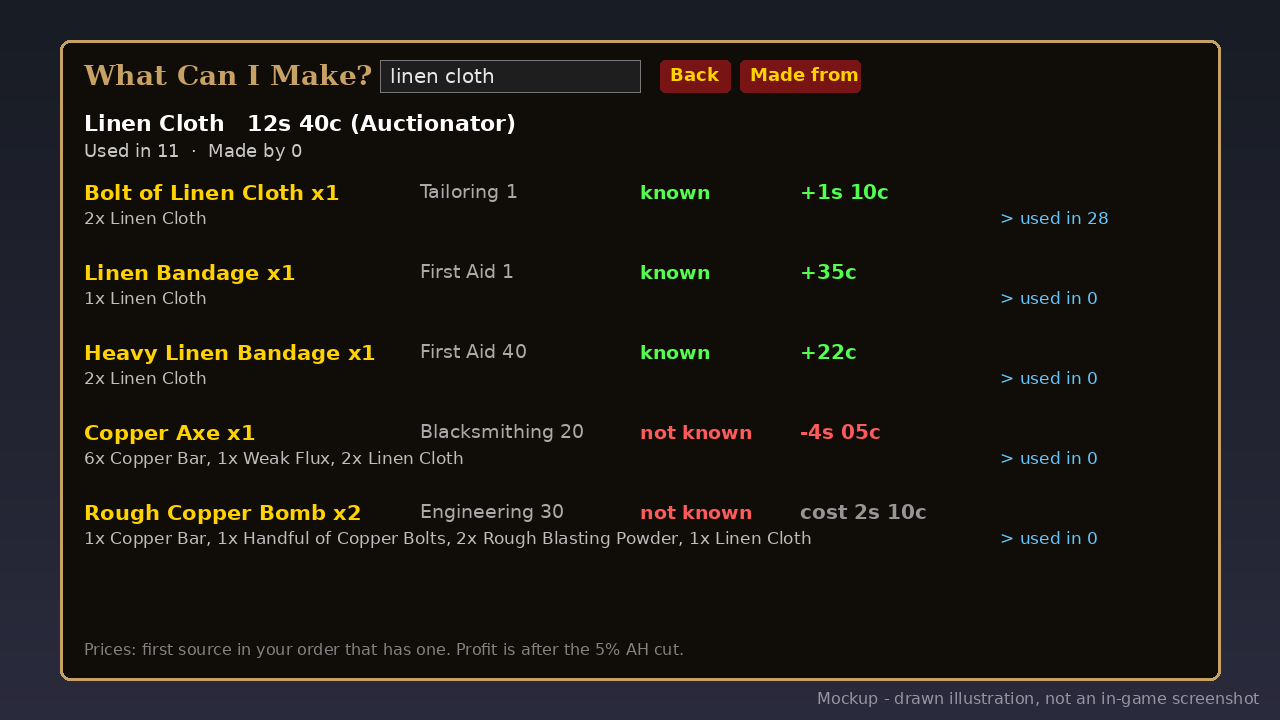
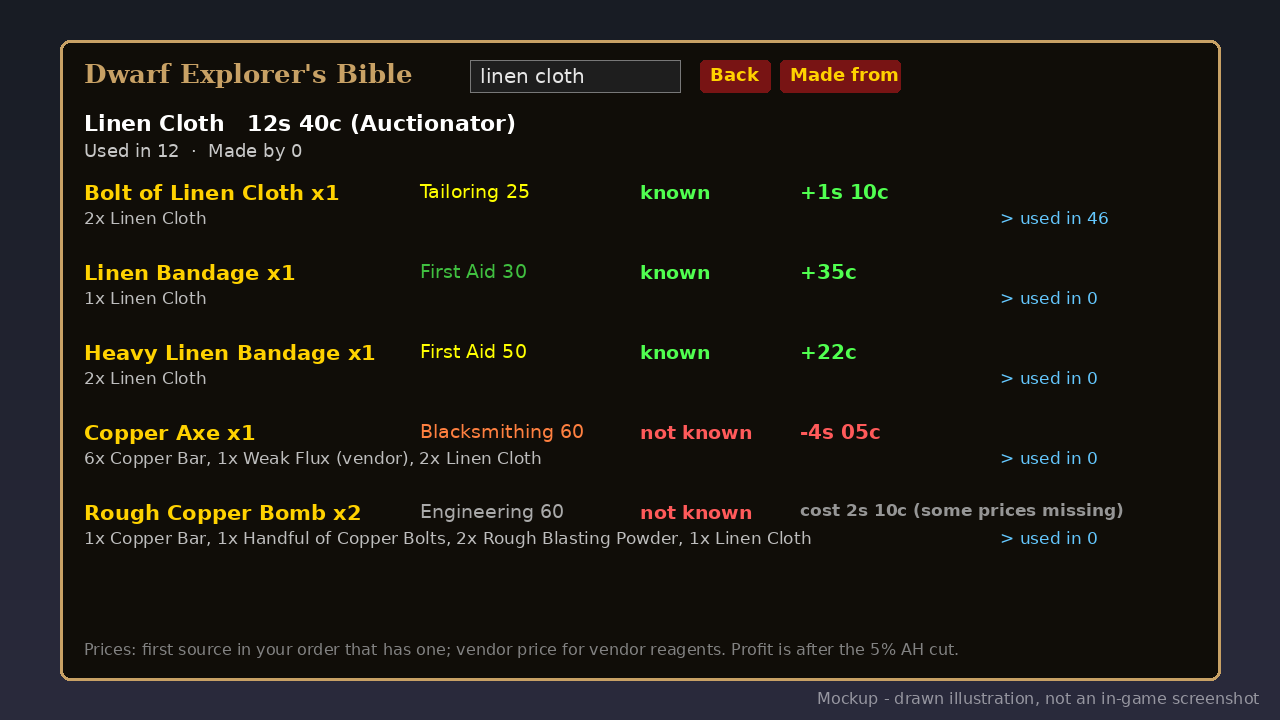
Rename to Dwarf Explorer's Bible (/deb, /craftguide)

diff --git a/README.md b/README.md
@@ -1,23 +1,23 @@
-<p align="center"><img src="media/logo.png" alt="What Can I Make? logo" width="200"></p>
+<p align="center"><img src="media/logo.png" alt="Dwarf Explorer's Bible logo" width="200"></p>
 
-# What Can I Make? (WoW: Forever) v1.0.0
+# Dwarf Explorer's Bible (WoW: Forever) v1.0.1
 
-[![Tests](https://github.com/masterred92/WhatCanIMake/actions/workflows/tests.yml/badge.svg)](https://github.com/masterred92/WhatCanIMake/actions/workflows/tests.yml) [![WoW: Forever](https://img.shields.io/badge/WoW%3A%20Forever-Interface%2016001-c8a165)](https://github.com/masterred92/WhatCanIMake/blob/main/WhatCanIMake.toc) [![Release](https://img.shields.io/github/v/release/masterred92/WhatCanIMake?label=release)](https://github.com/masterred92/WhatCanIMake/releases) [![License: MIT](https://img.shields.io/github/license/masterred92/WhatCanIMake)](https://github.com/masterred92/WhatCanIMake/blob/main/LICENSE)
+[![Tests](https://github.com/masterred92/DwarfExplorersBible/actions/workflows/tests.yml/badge.svg)](https://github.com/masterred92/DwarfExplorersBible/actions/workflows/tests.yml) [![WoW: Forever](https://img.shields.io/badge/WoW%3A%20Forever-Interface%2016001-c8a165)](https://github.com/masterred92/DwarfExplorersBible/blob/main/DwarfExplorersBible.toc) [![Release](https://img.shields.io/github/v/release/masterred92/DwarfExplorersBible?label=release)](https://github.com/masterred92/DwarfExplorersBible/releases) [![License: MIT](https://img.shields.io/github/license/masterred92/DwarfExplorersBible)](https://github.com/masterred92/DwarfExplorersBible/blob/main/LICENSE)
 
-**"What can I make with this?"** Pick any material and What Can I Make? shows every recipe that uses it, what each one is worth at the auction house right now, and where the result goes next.
+**What can I make?** — "What can I make with this?" Pick any material and Dwarf Explorer's Bible shows every recipe that uses it, what each one is worth at the auction house right now, and where the result goes next.
 
-- **Pick a material:** Alt-click any item (bags, chat links, loot, the AH), type `/wcim linen cloth`, paste a link, or use the search box.
+- **Pick a material:** Alt-click any item (bags, chat links, loot, the AH), type `/deb linen cloth`, paste a link, or use the search box.
 - **Every recipe that uses it:** profession, skill level (orange when it's above yours), the other reagents, and whether you know the recipe.
 - **Prices and profit:** the latest auction price for the material, every reagent and every crafted result, the reagent cost, and the estimated profit after the 5% AH cut. Each price says which addon it came from.
 - **Follow the chain:** click a result to see what *that* makes: Linen Cloth > Bolt of Linen Cloth > Linen Bag. Back walks the chain back. "Made from" flips to the recipes that create the item.
-- **Tooltip line:** "Used in N recipes (What Can I Make?)", with its price and source.
+- **Tooltip line:** "Used in N recipes (Dwarf Explorer's Bible)", with its price and source.
 - **LDB launcher** for Titan Panel, ChocolateBar and other broker displays.
 
-<p align="center"><img src="media/screenshots/banner.png" alt="What Can I Make? banner" width="560"></p>
-<p align="center"><img src="media/screenshots/mockup-guide.png" alt="What Can I Make? preview" width="560"></p>
+<p align="center"><img src="media/screenshots/banner.png" alt="Dwarf Explorer's Bible banner" width="560"></p>
+<p align="center"><img src="media/screenshots/mockup-guide.png" alt="Dwarf Explorer's Bible preview" width="560"></p>
 
 ## Price sources
-What Can I Make? reads prices from whichever price addon you already use. The first source in your order that has a price wins:
+Dwarf Explorer's Bible reads prices from whichever price addon you already use. The first source in your order that has a price wins:
 
 | Source | API used | Forever (16001) build |
 | --- | --- | --- |
@@ -25,10 +25,10 @@ What Can I Make? reads prices from whichever price addon you already use. The fi
 | [Auctionator](https://www.curseforge.com/wow/addons/auctionator) | `Auctionator.API.v1.GetAuctionPriceByItemID` | Yes (341, Oct 13 2026) |
 | [TradeSkillMaster](https://tradeskillmaster.com) | `TSM_API.GetCustomPriceValue("DBMarket")`, then `DBMinBuyout` | Not yet; works when it ships one |
 | [Auctioneer (Forever)](https://www.curseforge.com/wow/addons/auctioneer-forever) | `AucAdvanced.API.GetMarketValue` | Yes (4.0.0) |
-| What Can I Make? scan | prices it sees in AH searches **you** do | Always on |
+| Dwarf Explorer's Bible scan | prices it sees in AH searches **you** do | Always on |
 
 No price addon? It still works: every AH search you make (browse or commodity) is cached. It never searches on its own.
-Change the order with `/wcim prefer auctionator` or `/wcim order tsm,auctionator,scan`; `/wcim sources` shows the order and what's installed.
+Change the order with `/deb prefer auctionator` or `/deb order tsm,auctionator,scan`; `/deb sources` shows the order and what's installed.
 
 ## Where the recipes come from
 The recipe list (1,971 recipes across Alchemy, Blacksmithing, Cooking, Enchanting items, Engineering, First Aid, Leatherworking, Mining and Tailoring) comes from **WoW: Forever's own client tables** (build 1.60.1, via [wago.tools](https://wago.tools)), so it has Forever's reagents, not vanilla's: for example Minor Healing Potion in Forever uses an Empty Vial, Mild Spices and Peaceblooms. `tools/gen_data.py` regenerates it after a patch. Skill levels are where a recipe turns yellow and grey, coloured against your own skill. Each time you open a profession window the addon also records what you know and adds any recipe the bundled list doesn't have.
@@ -39,24 +39,24 @@ The recipe list (1,971 recipes across Alchemy, Blacksmithing, Cooking, Enchantin
 Reverse lookups exist ([Recipe Master by BrenoLudgero](https://www.curseforge.com/wow/addons/recipe-master), ATT, Auctionator's crafting info, TSM's crafting tab, CraftSim on retail, Crafting Dictionary on retail), but they either track which recipes you're missing, price recipes you already know, or start from the recipe rather than the material. This one starts from the material, prices every option from your own AH addon, and lets you walk the chain material > intermediate > final, like the Guide in Terraria.
 
 ## Commands
-`/wcim` (or `/craftguide`) open · `/wcim <name, link or itemID>` · `sources` · `prefer <id>` · `order a,b,c` · `tooltip` · `altclick` · `report` · `help`. Source ids: `pricelog`, `auctionator`, `tsm`, `auctioneer`, `scan`.
+`/deb` (or `/craftguide`) open · `/deb <name, link or itemID>` · `sources` · `prefer <id>` · `order a,b,c` · `tooltip` · `altclick` · `report` · `help`. Source ids: `pricelog`, `auctionator`, `tsm`, `auctioneer`, `scan`.
 
 ## Download
 - **Wago Addons:** coming at launch (Nov 4). The link goes here when the project is live.
 - **CurseForge:** maybe later.
-- **GitHub:** [Releases](https://github.com/masterred92/WhatCanIMake/releases) (from the first tagged release) · [Issues](https://github.com/masterred92/WhatCanIMake/issues)
+- **GitHub:** [Releases](https://github.com/masterred92/DwarfExplorersBible/releases) (from the first tagged release) · [Issues](https://github.com/masterred92/DwarfExplorersBible/issues)
 - **More by Kenny:** [PriceLog](https://github.com/masterred92/PriceLog) · [MatTooltip](https://github.com/masterred92/MatTooltip) · [NeutralFlip](https://github.com/masterred92/NeutralFlip) · [all WoW: Forever addons](https://github.com/masterred92/wow-forever-addons)
 
 ## Install
-Put the `WhatCanIMake` folder in `World of Warcraft\_forever_\Interface\AddOns\` and restart the game or `/reload`.
+Put the `DwarfExplorersBible` folder in `World of Warcraft\_forever_\Interface\AddOns\` and restart the game or `/reload`.
 
 ## In-game test checklist (launch day)
 1. Listed in AddOns with its icon.
-2. Hover Linen Cloth: "Used in N recipes (What Can I Make?)". Alt-click it: the guide opens on Linen Cloth.
-3. `/wcim copper bar` opens Copper Bar; click a result and Back returns.
+2. Hover Linen Cloth: "Used in N recipes (Dwarf Explorer's Bible)". Alt-click it: the guide opens on Linen Cloth.
+3. `/deb copper bar` opens Copper Bar; click a result and Back returns.
 4. Open each profession window: your known recipes turn green and your skill shows; a Forever-only recipe appears with "from your profession window".
-5. With Auctionator installed and a scan done, prices say "(Auctionator)". Turn it off: an AH search you do shows "(What Can I Make? scan)".
-6. `/wcim prefer scan` and `/wcim sources` show the new order; it survives `/reload`.
+5. With Auctionator installed and a scan done, prices say "(Auctionator)". Turn it off: an AH search you do shows "(Dwarf Explorer's Bible scan)".
+6. `/deb prefer scan` and `/deb sources` show the new order; it survives `/reload`.
 7. Titan Panel or another broker display shows the launcher.
 
 ## Credits

diff --git a/CHANGELOG.md b/CHANGELOG.md
@@ -9,9 +9,9 @@
 - Profession scans are debounced; tooltip lines can't be added twice.
 
 ## 1.0.0 (first release)
-- Pick a material by Alt-click, `/wcim <name, link or ID>` or the search box, and see every recipe that uses it: profession, skill level, other reagents, and whether you know it.
+- Pick a material by Alt-click, `/deb <name, link or ID>` or the search box, and see every recipe that uses it: profession, skill level, other reagents, and whether you know it.
 - Latest auction price for the material, reagents and results, reagent cost and estimated profit after the AH cut, each labelled with its source.
-- Price sources: PriceLog, Auctionator, TradeSkillMaster, Auctioneer, and its own cache of your AH searches. Order set with `/wcim prefer` or `/wcim order`.
+- Price sources: PriceLog, Auctionator, TradeSkillMaster, Auctioneer, and its own cache of your AH searches. Order set with `/deb prefer` or `/deb order`.
 - Crafting chains: click a result to follow it, Back to return, "Made from" for the recipes that create an item.
 - Bundled recipe list plus recipes recorded from your own profession windows.
 - Tooltip line "used in N recipes" and an LDB launcher. Game version: WoW: Forever 1.60.1 (Interface 16001).
